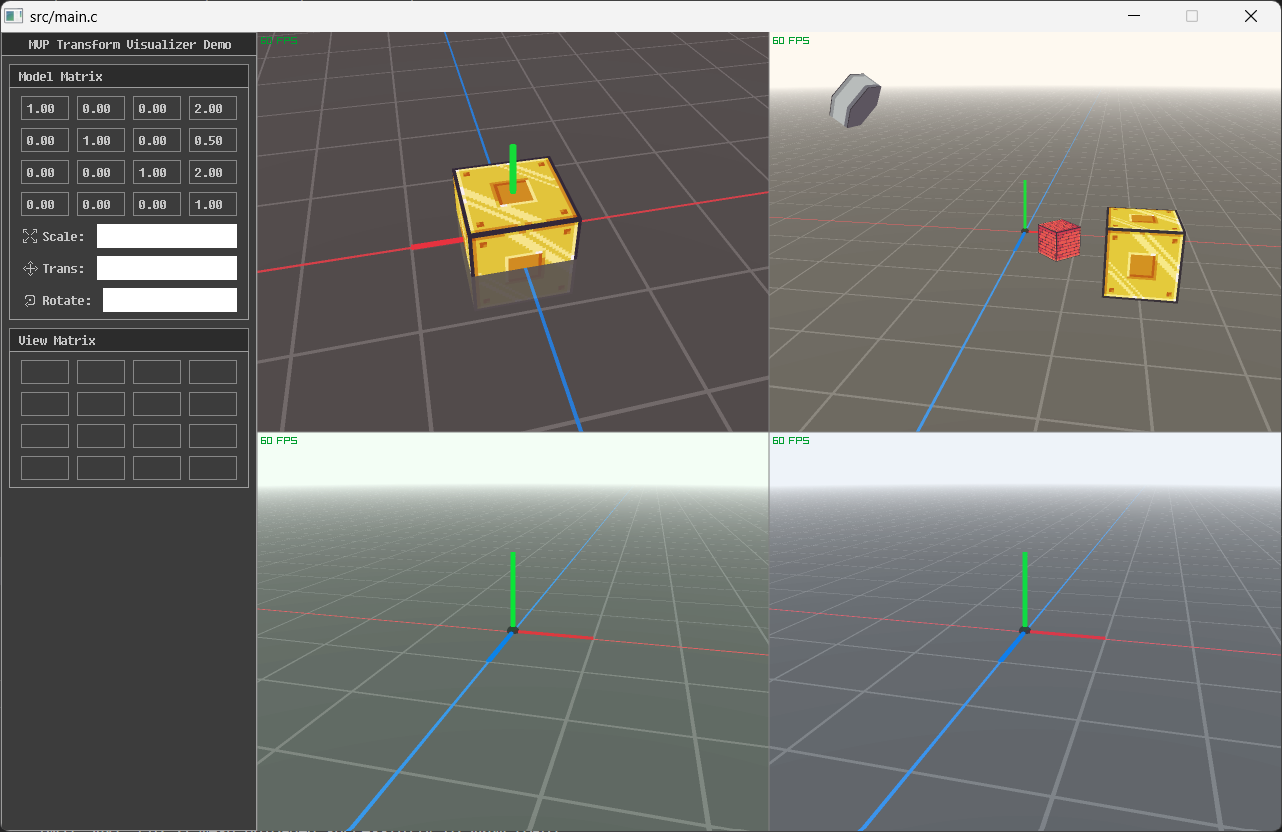
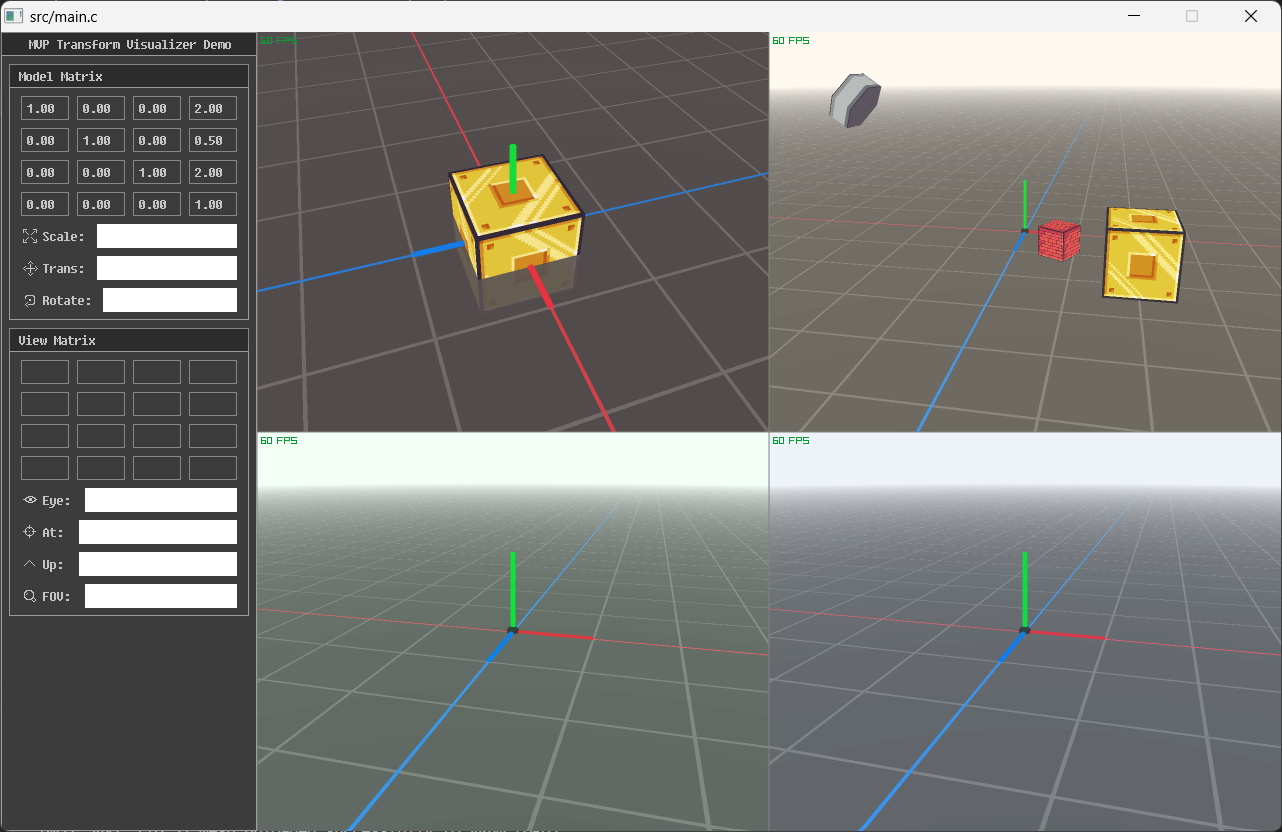
Add a GUI area for the virtual camera's view matrix

diff --git a/src/game.c b/src/game.c
@@ -120,6 +120,42 @@ static Rectangle guiViewMatEntryArea[16];
 /* "뷰 행렬"의 각 요소를 나타내는 문자열 */
 static char guiViewMatEntryText[16][MATRIX_ENTRY_STRING_LENGTH];
 
+/* "뷰 행렬"의 "EYE" 벡터 영역 */
+static Rectangle guiViewMatEyeArea;
+
+/* "뷰 행렬"의 "EYE" 벡터 레이블 영역 */
+static char guiViewMatEyeLabelText[LABEL_STRING_LENGTH];
+
+/* "뷰 행렬"의 "EYE" 벡터를 위한 입력 상자 영역 */
+static Rectangle guiViewMatEyeValueBoxArea;
+
+/* "뷰 행렬"의 "AT" 벡터 영역 */
+static Rectangle guiViewMatAtArea;
+
+/* "뷰 행렬"의 "AT" 벡터 레이블 영역 */
+static char guiViewMatAtLabelText[LABEL_STRING_LENGTH];
+
+/* "뷰 행렬"의 "AT" 벡터를 위한 입력 상자 영역 */
+static Rectangle guiViewMatAtValueBoxArea;
+
+/* "뷰 행렬"의 "UP" 벡터 영역 */
+static Rectangle guiViewMatUpArea;
+
+/* "뷰 행렬"의 "UP" 벡터 레이블 영역 */
+static char guiViewMatUpLabelText[LABEL_STRING_LENGTH];
+
+/* "뷰 행렬"의 "UP" 벡터를 위한 입력 상자 영역 */
+static Rectangle guiViewMatUpValueBoxArea;
+
+/* "뷰 행렬"의 "FOV" 영역 */
+static Rectangle guiViewMatFovArea;
+
+/* "뷰 행렬"의 "FOV" 레이블 영역 */
+static char guiViewMatFovLabelText[LABEL_STRING_LENGTH];
+
+/* "뷰 행렬"의 "FOV"를 위한 입력 상자 영역 */
+static Rectangle guiViewMatFovValueBoxArea;
+
 /* ========================================================================= */
 
 /* 게임 세계에 존재하는 물체들 */
@@ -231,6 +267,8 @@ void InitGameScreen(void) {
     {
         UpdateMatrixEntries(guiModelMatEntryText,
                             gameObjects[OBJ_TYPE_PLAYER].model.transform);
+
+        // TODO: ...
     }
 }
 
@@ -333,6 +371,18 @@ static void DrawGuiArea(void) {
                            guiViewMatEntryText[i],
                            MATRIX_ENTRY_STRING_LENGTH,
                            false);
+
+            GuiLabel(guiViewMatEyeArea, guiViewMatEyeLabelText);
+            DrawRectangleRec(guiViewMatEyeValueBoxArea, WHITE);
+
+            GuiLabel(guiViewMatAtArea, guiViewMatAtLabelText);
+            DrawRectangleRec(guiViewMatAtValueBoxArea, WHITE);
+
+            GuiLabel(guiViewMatUpArea, guiViewMatUpLabelText);
+            DrawRectangleRec(guiViewMatUpValueBoxArea, WHITE);
+
+            GuiLabel(guiViewMatFovArea, guiViewMatFovLabelText);
+            DrawRectangleRec(guiViewMatFovValueBoxArea, WHITE);
         }
     }
 
@@ -658,6 +708,122 @@ static void InitGuiAreas(void) {
             .height = guiMatEntryAreaHeight
         };
     }
+
+    {
+        guiViewMatEyeArea = (Rectangle) {
+            .x = guiViewMatArea.x + guiMatEntryOffsetX,
+            .y = (guiViewMatArea.y
+                  + (RAYGUI_WINDOWBOX_STATUSBAR_HEIGHT + guiDefaultPaddingSize))
+                 + 4.0f * (guiMatEntryAreaHeight + guiDefaultPaddingSize),
+            .width = guiViewMatArea.width - (3.0f * guiDefaultPaddingSize),
+            .height = guiMatEntryAreaHeight
+        };
+
+        strncpy(guiViewMatEyeLabelText,
+                GuiIconText(ICON_EYE_ON, "Eye:"),
+                LABEL_STRING_LENGTH);
+
+        Vector2 textAreaSize = MeasureTextEx(GuiGetFont(),
+                                             guiViewMatEyeLabelText,
+                                             GuiGetFont().baseSize,
+                                             -2.0f);
+
+        guiViewMatEyeValueBoxArea = (Rectangle) {
+            .x = (guiViewMatEyeArea.x + textAreaSize.x)
+                 + guiDefaultPaddingSize,
+            .y = guiViewMatEyeArea.y,
+            .width = (guiViewMatEyeArea.width - textAreaSize.x)
+                     - guiDefaultPaddingSize,
+            .height = guiViewMatEyeArea.height
+        };
+    }
+
+    {
+        guiViewMatAtArea = (Rectangle) {
+            .x = guiViewMatEyeArea.x,
+            .y = (guiViewMatEyeArea.y + guiViewMatEyeArea.height)
+                 + guiDefaultPaddingSize,
+            .width = guiViewMatEyeArea.width,
+            .height = guiMatEntryAreaHeight
+        };
+
+        strncpy(guiViewMatAtLabelText,
+                GuiIconText(ICON_TARGET, "At:"),
+                LABEL_STRING_LENGTH);
+
+        Vector2 textAreaSize = MeasureTextEx(GuiGetFont(),
+                                             guiViewMatAtLabelText,
+                                             GuiGetFont().baseSize,
+                                             -2.0f);
+
+        guiViewMatAtValueBoxArea = (Rectangle) {
+            .x = (guiViewMatAtArea.x + textAreaSize.x)
+                 + guiDefaultPaddingSize,
+            .y = guiViewMatAtArea.y,
+            .width = (guiViewMatAtArea.width - textAreaSize.x)
+                     - guiDefaultPaddingSize,
+            .height = guiViewMatAtArea.height
+        };
+    }
+
+    {
+        guiViewMatUpArea = (Rectangle) {
+            .x = guiViewMatAtArea.x,
+            .y = (guiViewMatAtArea.y + guiViewMatAtArea.height)
+                 + guiDefaultPaddingSize,
+            .width = guiViewMatAtArea.width,
+            .height = guiMatEntryAreaHeight
+        };
+
+        strncpy(guiViewMatUpLabelText,
+                GuiIconText(ICON_ARROW_UP, "Up:"),
+                LABEL_STRING_LENGTH);
+
+        Vector2 textAreaSize = MeasureTextEx(GuiGetFont(),
+                                             guiViewMatUpLabelText,
+                                             GuiGetFont().baseSize,
+                                             -2.0f);
+
+        guiViewMatUpValueBoxArea = (Rectangle) {
+            .x = (guiViewMatUpArea.x + textAreaSize.x)
+                 + guiDefaultPaddingSize,
+            .y = guiViewMatUpArea.y,
+            .width = (guiViewMatUpArea.width - textAreaSize.x)
+                     - guiDefaultPaddingSize,
+            .height = guiViewMatUpArea.height
+        };
+    }
+
+    {
+        guiViewMatFovArea = (Rectangle) {
+            .x = guiViewMatUpArea.x,
+            .y = (guiViewMatUpArea.y + guiViewMatUpArea.height)
+                 + guiDefaultPaddingSize,
+            .width = guiViewMatUpArea.width,
+            .height = guiMatEntryAreaHeight
+        };
+
+        strncpy(guiViewMatFovLabelText,
+                GuiIconText(ICON_LENS_BIG, "FOV:"),
+                LABEL_STRING_LENGTH);
+
+        Vector2 textAreaSize = MeasureTextEx(GuiGetFont(),
+                                             guiViewMatFovLabelText,
+                                             GuiGetFont().baseSize,
+                                             -2.0f);
+
+        guiViewMatFovValueBoxArea = (Rectangle) {
+            .x = (guiViewMatFovArea.x + textAreaSize.x)
+                 + guiDefaultPaddingSize,
+            .y = guiViewMatFovArea.y,
+            .width = (guiViewMatFovArea.width - textAreaSize.x)
+                     - guiDefaultPaddingSize,
+            .height = guiViewMatFovArea.height
+        };
+    }
+
+    guiViewMatArea.height += 4.0f
+                              * (guiMatEntryAreaHeight + guiDefaultPaddingSize);
 }
 
 /* 행렬의 각 요소를 나타내는 문자열을 업데이트하는 함수 */
